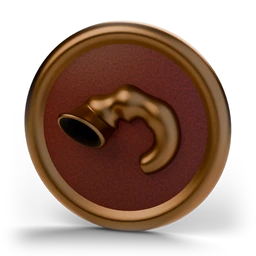
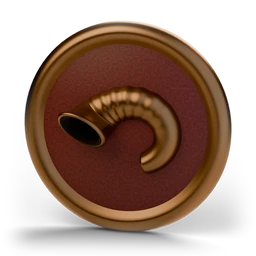
Art: smooth shofar horn on the «Праздники» medallion (shallow regular growth ridges, subdivided surface)

diff --git a/assets/3d/scripts/emblem_prazdniki.py b/assets/3d/scripts/emblem_prazdniki.py
@@ -12,8 +12,12 @@ sys.path.insert(0, os.path.dirname(os.path.abspath(__file__)))
 import common
 import emblemkit
 
-SIDES = 22
-N_BODY = 56
+SIDES = 32
+N_BODY = 140
+# Growth ridges: shallow, regular rings (a few % of the width), not bulges.
+RIDGES = 16
+RIDGE_W = 0.035
+RIDGE_D = 0.030
 # Smooth crescent in the face of the coin. t = 0 is the mouthpiece,
 # t = 1 is the bell. The arc is wide enough that a thick tube does not
 # fold through itself. The last part of the path turns toward the camera
@@ -67,7 +71,7 @@ def _halfwidth(t, ridges=True):
         w = shank + (bell - shank) * u
     if ridges and 0.18 < t < 0.76:
         fade = math.sin((t - 0.18) / 0.58 * math.pi)
-        w *= 1.0 + 0.20 * math.sin(t * math.pi * 10.0) * fade
+        w *= 1.0 + RIDGE_W * math.sin(t * math.pi * 2.0 * RIDGES) * fade
     return w
 
 
@@ -83,7 +87,7 @@ def _halfdepth(t, ridges=True):
     d = 0.150 + (w * 0.62 - 0.150) * u
     if ridges and 0.18 < t < 0.76:
         fade = math.sin((t - 0.18) / 0.58 * math.pi)
-        d *= 1.0 + 0.14 * math.sin(t * math.pi * 10.0) * fade
+        d *= 1.0 + RIDGE_D * math.sin(t * math.pi * 2.0 * RIDGES) * fade
     return d
 
 
@@ -236,6 +240,9 @@ def _build_horn(metal, bore):
     bpy.context.collection.objects.link(ob)
     ob.data.materials.append(metal)
     ob.data.materials.append(bore)
+    sub = ob.modifiers.new("smooth", "SUBSURF")
+    sub.levels = 1
+    sub.render_levels = 2
     common.smooth(ob)
     bpy.context.view_layer.objects.active = ob
     ob.select_set(True)
@@ -263,19 +270,6 @@ def build():
     # Long side of the horn ~70% of the inner-field diameter.
     emblemkit.fit_xz(syms, emblemkit.DISC_R * 0.70)
     bpy.context.view_layer.update()
-    mw = horn.matrix_world
-    # One ring per station, in world XZ, to see which axis is the silhouette.
-    ts = [i / (N_BODY - 1) for i in range(N_BODY)]
-    arcs = [_arc(t) for t in ts]
-    pts = [c for c, _o in arcs]
-    tang, normals, binorms = _frames(pts)
-    for t in (0.0, 0.12, 0.28, 0.5, 0.75, 1.0):
-        i = int(round(t * (N_BODY - 1)))
-        c = pts[i] + arcs[i][1] * _flare_shift(t)
-        ring = _ring(c, normals[i], binorms[i], _halfdepth(t, False), _halfwidth(t, False))
-        world = [mw @ p for p in ring]
-        xs = [p.x for p in world]; zs = [p.z for p in world]; ys = [p.y for p in world]
-        print(f"t={t:.2f} XZ {max(xs)-min(xs):.3f}x{max(zs)-min(zs):.3f} Y {min(ys):.3f}..{max(ys):.3f} ny={normals[i].y:.2f} by={binorms[i].y:.2f}")
     objs.extend(syms)
     emblemkit.finish(objs, "prazdniki")
 
